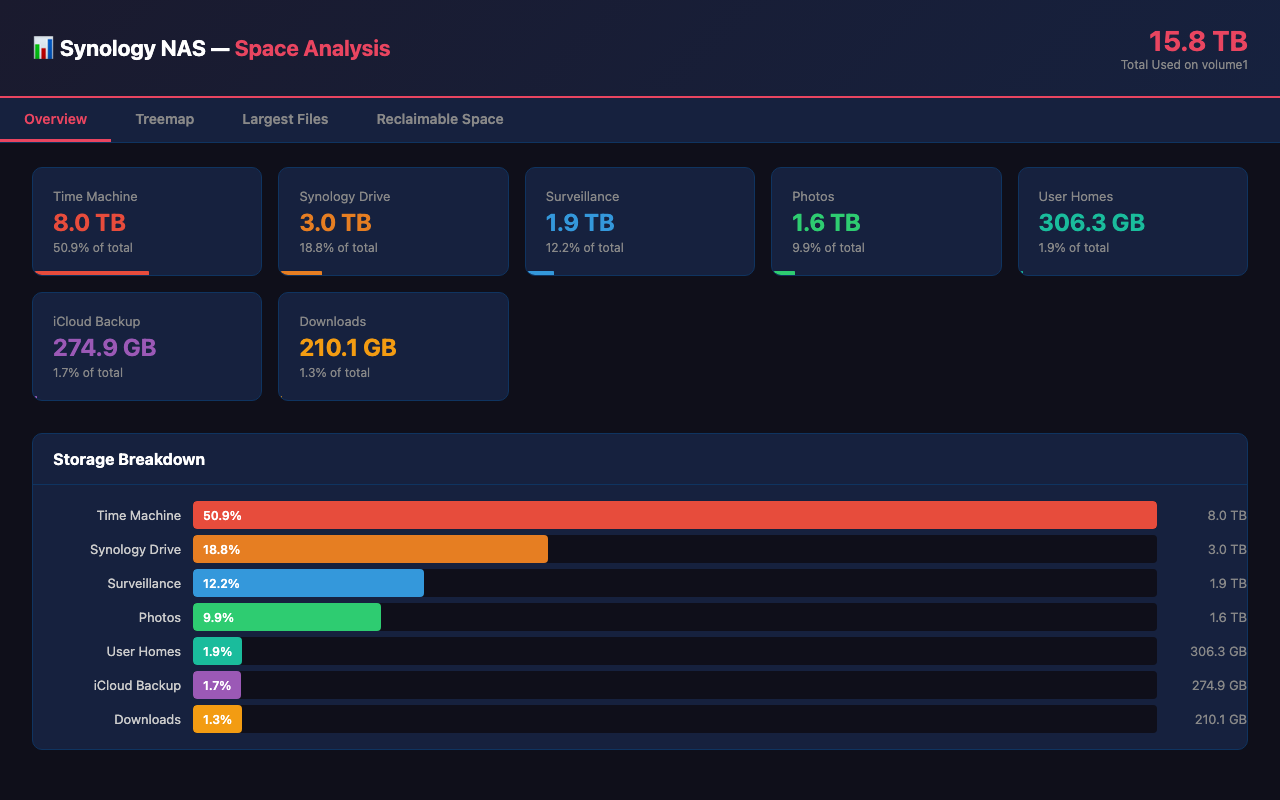
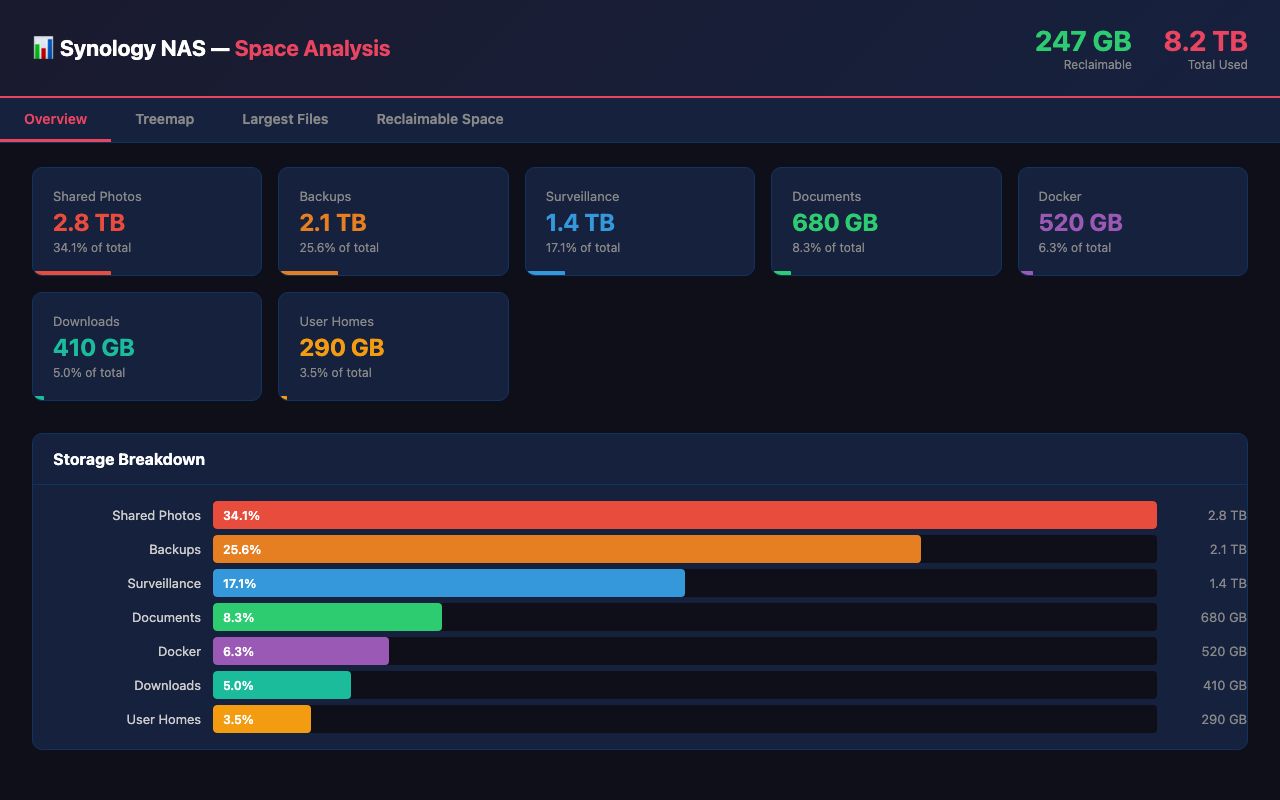
Replace dashboard screenshot with fake demo data
No real NAS data in the screenshot or demo HTML.
All paths, sizes, and categories are fictional.

diff --git a/docs/demo-dashboard.html b/docs/demo-dashboard.html
@@ -1,0 +1,334 @@
+<!DOCTYPE html>
+<html lang="en">
+<head>
+<meta charset="UTF-8">
+<meta name="viewport" content="width=device-width, initial-scale=1.0">
+<title>Synology NAS — Space Analysis</title>
+<style>
+* { margin:0; padding:0; box-sizing:border-box; }
+body { font-family:-apple-system,BlinkMacSystemFont,'Segoe UI',Roboto,sans-serif; background:#0f0f1a; color:#e0e0e0; }
+
+.header { background:linear-gradient(135deg,#1a1a2e,#16213e); padding:24px 32px; border-bottom:2px solid #e94560; display:flex; justify-content:space-between; align-items:center; }
+.header h1 { font-size:22px; color:#fff; }
+.header h1 span { color:#e94560; }
+.header .stats { display:flex; gap:32px; }
+.header .stat { text-align:right; }
+.header .stat .big { font-size:28px; font-weight:bold; color:#e94560; }
+.header .stat .big.green { color:#2ecc71; }
+.header .stat .label { font-size:12px; color:#888; }
+
+.tabs { display:flex; background:#16213e; border-bottom:1px solid #0f3460; }
+.tab { padding:12px 24px; cursor:pointer; color:#888; font-size:14px; font-weight:600; border-bottom:3px solid transparent; transition:all 0.2s; }
+.tab:hover { color:#ccc; }
+.tab.active { color:#e94560; border-bottom-color:#e94560; }
+
+.content { padding:24px 32px; }
+
+.cards { display:grid; grid-template-columns:repeat(auto-fit,minmax(200px,1fr)); gap:16px; margin-bottom:32px; }
+.card { background:#16213e; border-radius:10px; padding:20px; border:1px solid #0f3460; position:relative; overflow:hidden; }
+.card .bar { position:absolute; bottom:0; left:0; height:4px; border-radius:0 2px 0 10px; }
+.card .name { font-size:13px; color:#888; margin-bottom:4px; }
+.card .size { font-size:24px; font-weight:bold; }
+.card .pct { font-size:12px; color:#888; margin-top:4px; }
+
+#treemap-wrap { background:#16213e; border-radius:10px; border:1px solid #0f3460; overflow:hidden; margin-bottom:32px; }
+#treemap-header { padding:16px 20px; border-bottom:1px solid #0f3460; }
+#treemap-header h2 { font-size:16px; color:#fff; }
+#treemap { width:100%; height:420px; position:relative; }
+.tm-node { position:absolute; overflow:hidden; cursor:pointer; transition:opacity 0.15s; display:flex; flex-direction:column; justify-content:center; align-items:center; }
+.tm-node:hover { opacity:0.8; z-index:10; }
+.tm-label { font-size:12px; color:#fff; text-shadow:0 1px 3px rgba(0,0,0,0.8); text-align:center; pointer-events:none; padding:4px; }
+.tm-label .sz { font-size:11px; opacity:0.8; }
+
+.table-wrap { background:#16213e; border-radius:10px; border:1px solid #0f3460; overflow:hidden; margin-bottom:32px; }
+.table-wrap h2 { padding:16px 20px; font-size:16px; color:#fff; border-bottom:1px solid #0f3460; }
+table { width:100%; border-collapse:collapse; }
+th { text-align:left; padding:10px 16px; font-size:12px; color:#888; text-transform:uppercase; letter-spacing:0.5px; border-bottom:1px solid #0f3460; }
+td { padding:10px 16px; font-size:13px; border-bottom:1px solid rgba(15,52,96,0.5); }
+td.sz { font-weight:600; color:#e94560; white-space:nowrap; text-align:right; }
+td.path { color:#aaa; word-break:break-all; max-width:600px; }
+td.date { color:#666; white-space:nowrap; }
+tr:hover { background:rgba(233,69,96,0.05); }
+
+.tooltip { position:fixed; background:#1a1a2e; border:1px solid #e94560; border-radius:8px; padding:14px 18px; font-size:13px; pointer-events:none; z-index:1000; display:none; max-width:350px; box-shadow:0 8px 32px rgba(0,0,0,0.6); }
+.tooltip .tt-name { font-weight:bold; color:#fff; font-size:14px; }
+.tooltip .tt-size { color:#e94560; font-size:18px; font-weight:bold; margin:4px 0; }
+.tooltip .tt-pct { color:#888; font-size:12px; }
+
+.panel { display:none; }
+.panel.active { display:block; }
+
+.bar-chart { margin:16px 0; }
+.bar-row { display:flex; align-items:center; margin:6px 0; }
+.bar-name { width:180px; font-size:13px; color:#ccc; text-align:right; padding-right:12px; }
+.bar-track { flex:1; height:28px; background:#0f0f1a; border-radius:4px; overflow:hidden; }
+.bar-fill { height:100%; border-radius:4px; display:flex; align-items:center; padding:0 10px; font-size:12px; color:#fff; font-weight:600; min-width:fit-content; white-space:nowrap; }
+.bar-value { width:90px; font-size:13px; color:#888; padding-left:12px; text-align:right; }
+</style>
+</head>
+<body>
+
+<div class="header">
+    <h1>📊 Synology NAS — <span>Space Analysis</span></h1>
+    <div class="stats">
+        <div class="stat">
+            <div class="big green">247 GB</div>
+            <div class="label">Reclaimable</div>
+        </div>
+        <div class="stat">
+            <div class="big">8.2 TB</div>
+            <div class="label">Total Used</div>
+        </div>
+    </div>
+</div>
+
+<div class="tabs">
+    <div class="tab active" onclick="showPanel('overview')">Overview</div>
+    <div class="tab" onclick="showPanel('treemap')">Treemap</div>
+    <div class="tab" onclick="showPanel('files')">Largest Files</div>
+    <div class="tab" onclick="showPanel('reclaimable')">Reclaimable Space</div>
+</div>
+
+<div class="content">
+
+<div class="panel active" id="panel-overview">
+<div class="cards" id="cards"></div>
+<div class="table-wrap">
+<h2>Storage Breakdown</h2>
+<div class="bar-chart" id="bar-chart"></div>
+</div>
+</div>
+
+<div class="panel" id="panel-treemap">
+<div id="treemap-wrap">
+    <div id="treemap-header"><h2>Disk Usage Treemap</h2></div>
+    <div id="treemap"></div>
+</div>
+</div>
+
+<div class="panel" id="panel-files">
+<div class="table-wrap">
+    <h2>Top 20 Largest Files</h2>
+    <table>
+        <thead><tr><th>Size</th><th>File Path</th><th>Modified</th></tr></thead>
+        <tbody id="file-tbody"></tbody>
+    </table>
+</div>
+</div>
+
+<div class="panel" id="panel-reclaimable">
+<div class="cards" id="reclaim-cards"></div>
+<div class="table-wrap">
+    <h2>Reclaimable Items</h2>
+    <table>
+        <thead><tr><th>Size</th><th>What</th><th>Where</th><th>Why</th></tr></thead>
+        <tbody id="reclaim-tbody"></tbody>
+    </table>
+</div>
+</div>
+
+</div>
+
+<div class="tooltip" id="tooltip">
+    <div class="tt-name"></div>
+    <div class="tt-size"></div>
+    <div class="tt-pct"></div>
+</div>
+
+<script>
+const TREEMAP = {
+    name: "volume1", size: 8200000, human_size: "8.2 TB",
+    children: [
+        {name: "Shared Photos", size: 2800000, human_size: "2.8 TB"},
+        {name: "Backups", size: 2100000, human_size: "2.1 TB"},
+        {name: "Surveillance", size: 1400000, human_size: "1.4 TB"},
+        {name: "Documents", size: 680000, human_size: "680 GB"},
+        {name: "Docker", size: 520000, human_size: "520 GB"},
+        {name: "Downloads", size: 410000, human_size: "410 GB"},
+        {name: "User Homes", size: 290000, human_size: "290 GB"}
+    ]
+};
+const TOTAL = TREEMAP.size;
+
+const AUTO_COLORS = ['#e74c3c','#e67e22','#3498db','#2ecc71','#9b59b6','#1abc9c','#f39c12'];
+const COLORS = {};
+TREEMAP.children.sort((a,b)=>b.size-a.size).forEach((c,i) => { COLORS[c.name] = AUTO_COLORS[i]; });
+
+const FILES = [
+    {human_size:"42.0 GB", path:"/volume1/backups/server-full-2024-01.tar.gz", modified:"2024-01-15"},
+    {human_size:"42.0 GB", path:"/volume1/backups/server-full-2024-06.tar.gz", modified:"2024-06-01"},
+    {human_size:"38.5 GB", path:"/volume1/docker/volumes/postgres-data/base/main", modified:"2025-02-20"},
+    {human_size:"24.0 GB", path:"/volume1/downloads/ubuntu-24.04-desktop-amd64.iso", modified:"2025-01-10"},
+    {human_size:"18.2 GB", path:"/volume1/downloads/Win11_24H2_English_x64.iso", modified:"2024-11-05"},
+    {human_size:"15.8 GB", path:"/volume1/docker/volumes/jellyfin-cache/transcodes", modified:"2025-02-18"},
+    {human_size:"12.4 GB", path:"/volume1/homes/alex/Documents/project-archive.zip", modified:"2023-08-22"},
+    {human_size:"12.4 GB", path:"/volume1/downloads/project-archive.zip", modified:"2023-08-22"},
+    {human_size:"9.7 GB", path:"/volume1/backups/photos-export-2023.tar", modified:"2023-12-31"},
+    {human_size:"8.1 GB", path:"/volume1/docker/overlay2/abc123/merged/var/log/app.log", modified:"2025-02-27"},
+    {human_size:"6.3 GB", path:"/volume1/surveillance/Front Door/2025-02-27.mp4", modified:"2025-02-27"},
+    {human_size:"5.9 GB", path:"/volume1/downloads/Fedora-41-x86_64.iso", modified:"2024-10-29"},
+    {human_size:"4.8 GB", path:"/volume1/homes/alex/Downloads/game-installer.exe", modified:"2024-03-15"},
+    {human_size:"4.2 GB", path:"/volume1/documents/old-vm-snapshots/win10-base.qcow2", modified:"2022-06-10"},
+    {human_size:"3.9 GB", path:"/volume1/@synologydrive/@sync/repo/a/b/.x", modified:"2024-09-12"},
+];
+
+const RECLAIM_CARDS = [
+    {name:"Duplicate Files", size:"84.4 GB", color:"#e94560"},
+    {name:"Docker Cleanup", size:"62.0 GB", color:"#e67e22"},
+    {name:"ISO Images", size:"48.1 GB", color:"#9b59b6"},
+    {name:"Old Snapshots", size:"33.0 GB", color:"#3498db"},
+    {name:"Recycle Bins", size:"12.5 GB", color:"#2ecc71"},
+    {name:"Log Files", size:"8.1 GB", color:"#636e72"},
+];
+
+const RECLAIM_ITEMS = [
+    {size:"42.0 GB", what:"Duplicate server backup", where:"/volume1/backups/", why:"Identical to June backup"},
+    {size:"24.0 GB", what:"Ubuntu 24.04 ISO", where:"/volume1/downloads/", why:"Re-downloadable"},
+    {size:"18.2 GB", what:"Windows 11 ISO", where:"/volume1/downloads/", why:"Re-downloadable"},
+    {size:"15.8 GB", what:"Jellyfin transcode cache", where:"/volume1/docker/volumes/", why:"Cache — rebuilds automatically"},
+    {size:"12.4 GB", what:"Duplicate project archive", where:"In homes/ and downloads/", why:"Exact duplicate — delete one"},
+    {size:"12.5 GB", what:"Recycle bins (4 shares)", where:"#recycle folders", why:"Already-deleted files"},
+    {size:"8.1 GB", what:"Docker app.log", where:"/volume1/docker/overlay2/", why:"Oversized log — safe to truncate"},
+    {size:"5.9 GB", what:"Fedora 41 ISO", where:"/volume1/downloads/", why:"Re-downloadable"},
+    {size:"4.2 GB", what:"Old VM snapshot", where:"/volume1/documents/", why:"From 2022 — likely unused"},
+];
+
+function pct(part, whole) { return ((part / whole) * 100).toFixed(1); }
+
+function showPanel(name) {
+    document.querySelectorAll('.panel').forEach(p => p.classList.remove('active'));
+    document.querySelectorAll('.tab').forEach(t => t.classList.remove('active'));
+    document.getElementById('panel-' + name).classList.add('active');
+    event.target.classList.add('active');
+    if (name === 'treemap') renderTreemap();
+}
+
+function renderCards() {
+    const el = document.getElementById('cards');
+    let html = '';
+    TREEMAP.children.forEach(c => {
+        const p = pct(c.size, TOTAL);
+        const color = COLORS[c.name] || '#636e72';
+        html += '<div class="card"><div class="bar" style="width:' + p + '%;background:' + color + '"></div>' +
+            '<div class="name">' + c.name + '</div><div class="size" style="color:' + color + '">' + c.human_size + '</div>' +
+            '<div class="pct">' + p + '% of total</div></div>';
+    });
+    el.innerHTML = html;
+}
+
+function renderBarChart() {
+    const el = document.getElementById('bar-chart');
+    const cats = TREEMAP.children;
+    const maxSize = cats[0].size;
+    let html = '';
+    cats.forEach(c => {
+        const p = pct(c.size, TOTAL);
+        const barW = (c.size / maxSize * 100).toFixed(1);
+        const color = COLORS[c.name] || '#636e72';
+        html += '<div class="bar-row"><div class="bar-name">' + c.name + '</div>' +
+            '<div class="bar-track"><div class="bar-fill" style="width:' + barW + '%;background:' + color + '">' + p + '%</div></div>' +
+            '<div class="bar-value">' + c.human_size + '</div></div>';
+    });
+    el.innerHTML = html;
+}
+
+function squarify(items, x, y, w, h) {
+    if (!items.length) return [];
+    const totalSize = items.reduce((s,i) => s + i.size, 0);
+    if (totalSize <= 0) return [];
+    const rects = [];
+    let rem = [...items], cx=x, cy=y, cw=w, ch=h;
+    while (rem.length > 0) {
+        const isWide = cw >= ch;
+        const sideLen = isWide ? ch : cw;
+        const remaining = rem.reduce((s,i) => s + i.size, 0);
+        let row = [rem[0]], rowSize = rem[0].size;
+        rem = rem.slice(1);
+        function worst(row, rs, sl) {
+            const rl = (rs/remaining)*(isWide?cw:ch);
+            if (rl<=0) return Infinity;
+            let w=0;
+            for (const it of row) { const ia=(it.size/remaining)*sl*(isWide?cw:ch); const il=ia/rl; w=Math.max(w,Math.max(rl/il,il/rl)); }
+            return w;
+        }
+        while (rem.length > 0) {
+            const nr=[...row,rem[0]], ns=rowSize+rem[0].size;
+            if (worst(nr,ns,sideLen)<=worst(row,rowSize,sideLen)) { row=nr; rowSize=ns; rem=rem.slice(1); }
+            else break;
+        }
+        const rt = (rowSize/remaining)*(isWide?cw:ch);
+        let off=0;
+        for (const it of row) {
+            const il = sideLen*(it.size/rowSize);
+            if (isWide) rects.push({item:it,x:cx,y:cy+off,w:rt,h:il});
+            else rects.push({item:it,x:cx+off,y:cy,w:il,h:rt});
+            off += il;
+        }
+        if (isWide) { cx+=rt; cw-=rt; } else { cy+=rt; ch-=rt; }
+    }
+    return rects;
+}
+
+function renderTreemap() {
+    const container = document.getElementById('treemap');
+    container.innerHTML = '';
+    const W = container.clientWidth, H = container.clientHeight;
+    const sorted = [...TREEMAP.children].sort((a,b)=>b.size-a.size);
+    const rects = squarify(sorted, 0, 0, W, H);
+    rects.forEach(r => {
+        if (r.w < 2 || r.h < 2) return;
+        const div = document.createElement('div');
+        div.className = 'tm-node';
+        div.style.cssText = 'left:'+r.x+'px;top:'+r.y+'px;width:'+r.w+'px;height:'+r.h+'px;background:'+(COLORS[r.item.name]||'#636e72')+';border:2px solid rgba(0,0,0,0.3);';
+        if (r.w > 60 && r.h > 36) {
+            div.innerHTML = '<div class="tm-label">' + r.item.name + '<br><span class="sz">' + r.item.human_size + '</span></div>';
+        }
+        div.addEventListener('mousemove', e => {
+            const tt = document.getElementById('tooltip');
+            tt.style.display='block';
+            tt.querySelector('.tt-name').textContent = r.item.name;
+            tt.querySelector('.tt-size').textContent = r.item.human_size;
+            tt.querySelector('.tt-pct').textContent = pct(r.item.size, TOTAL) + '% of total storage';
+            let tx=e.clientX+15, ty=e.clientY+15;
+            if (tx+300>window.innerWidth) tx=e.clientX-310;
+            tt.style.left=tx+'px'; tt.style.top=ty+'px';
+        });
+        div.addEventListener('mouseleave', () => { document.getElementById('tooltip').style.display='none'; });
+        container.appendChild(div);
+    });
+}
+
+function renderFiles() {
+    const tbody = document.getElementById('file-tbody');
+    let html = '';
+    FILES.forEach(f => {
+        html += '<tr><td class="sz">' + f.human_size + '</td><td class="path">' + f.path + '</td><td class="date">' + f.modified + '</td></tr>';
+    });
+    tbody.innerHTML = html;
+}
+
+function renderReclaimable() {
+    const cards = document.getElementById('reclaim-cards');
+    let chtml = '';
+    RECLAIM_CARDS.forEach(c => {
+        chtml += '<div class="card"><div class="bar" style="width:100%;background:' + c.color + '"></div>' +
+            '<div class="name">' + c.name + '</div><div class="size" style="color:' + c.color + '">' + c.size + '</div></div>';
+    });
+    cards.innerHTML = chtml;
+
+    const tbody = document.getElementById('reclaim-tbody');
+    let html = '';
+    RECLAIM_ITEMS.forEach(i => {
+        html += '<tr><td class="sz">' + i.size + '</td><td>' + i.what + '</td><td class="path">' + i.where + '</td><td>' + i.why + '</td></tr>';
+    });
+    tbody.innerHTML = html;
+}
+
+renderCards();
+renderBarChart();
+renderFiles();
+renderReclaimable();
+window.addEventListener('resize', () => { if (document.getElementById('panel-treemap').classList.contains('active')) renderTreemap(); });
+</script>
+</body>
+</html>
